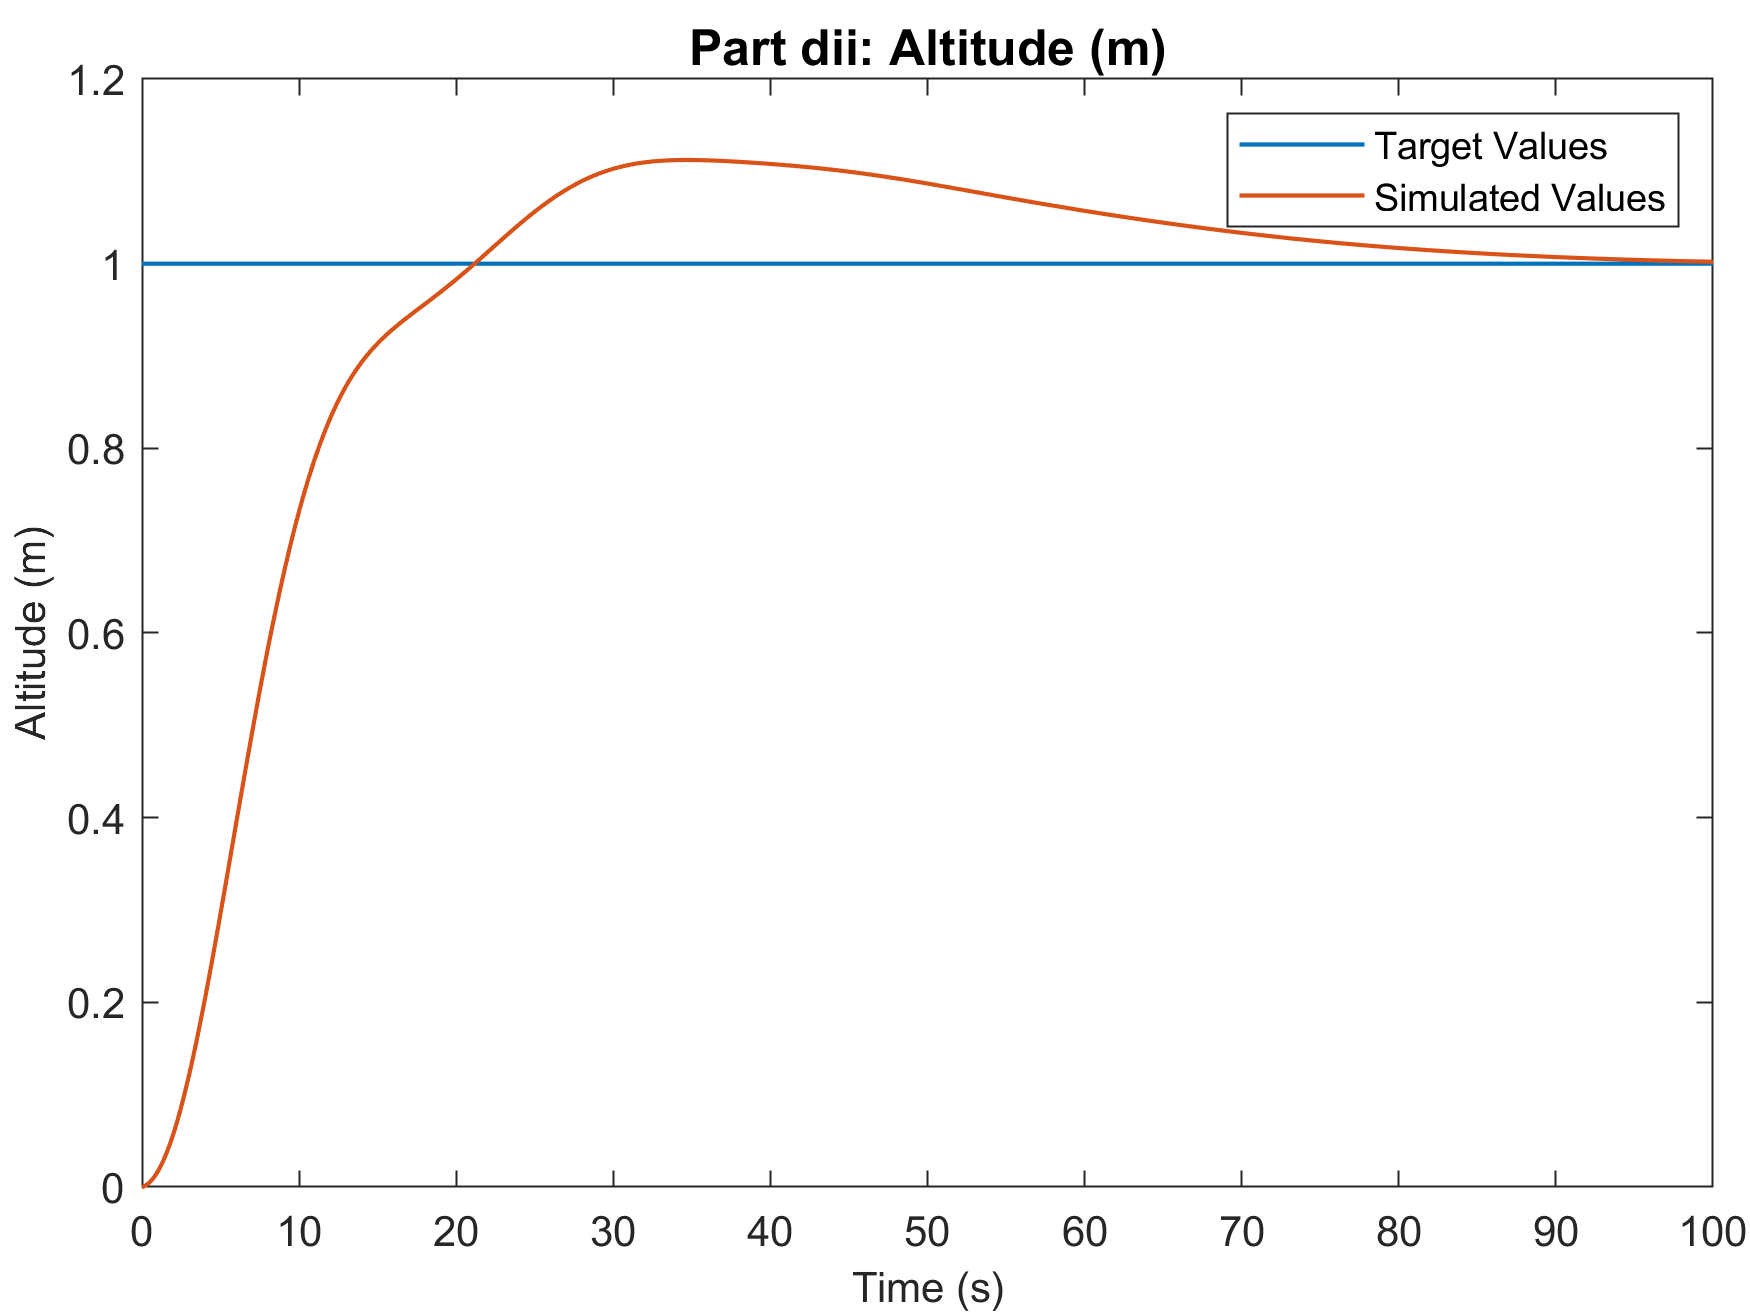
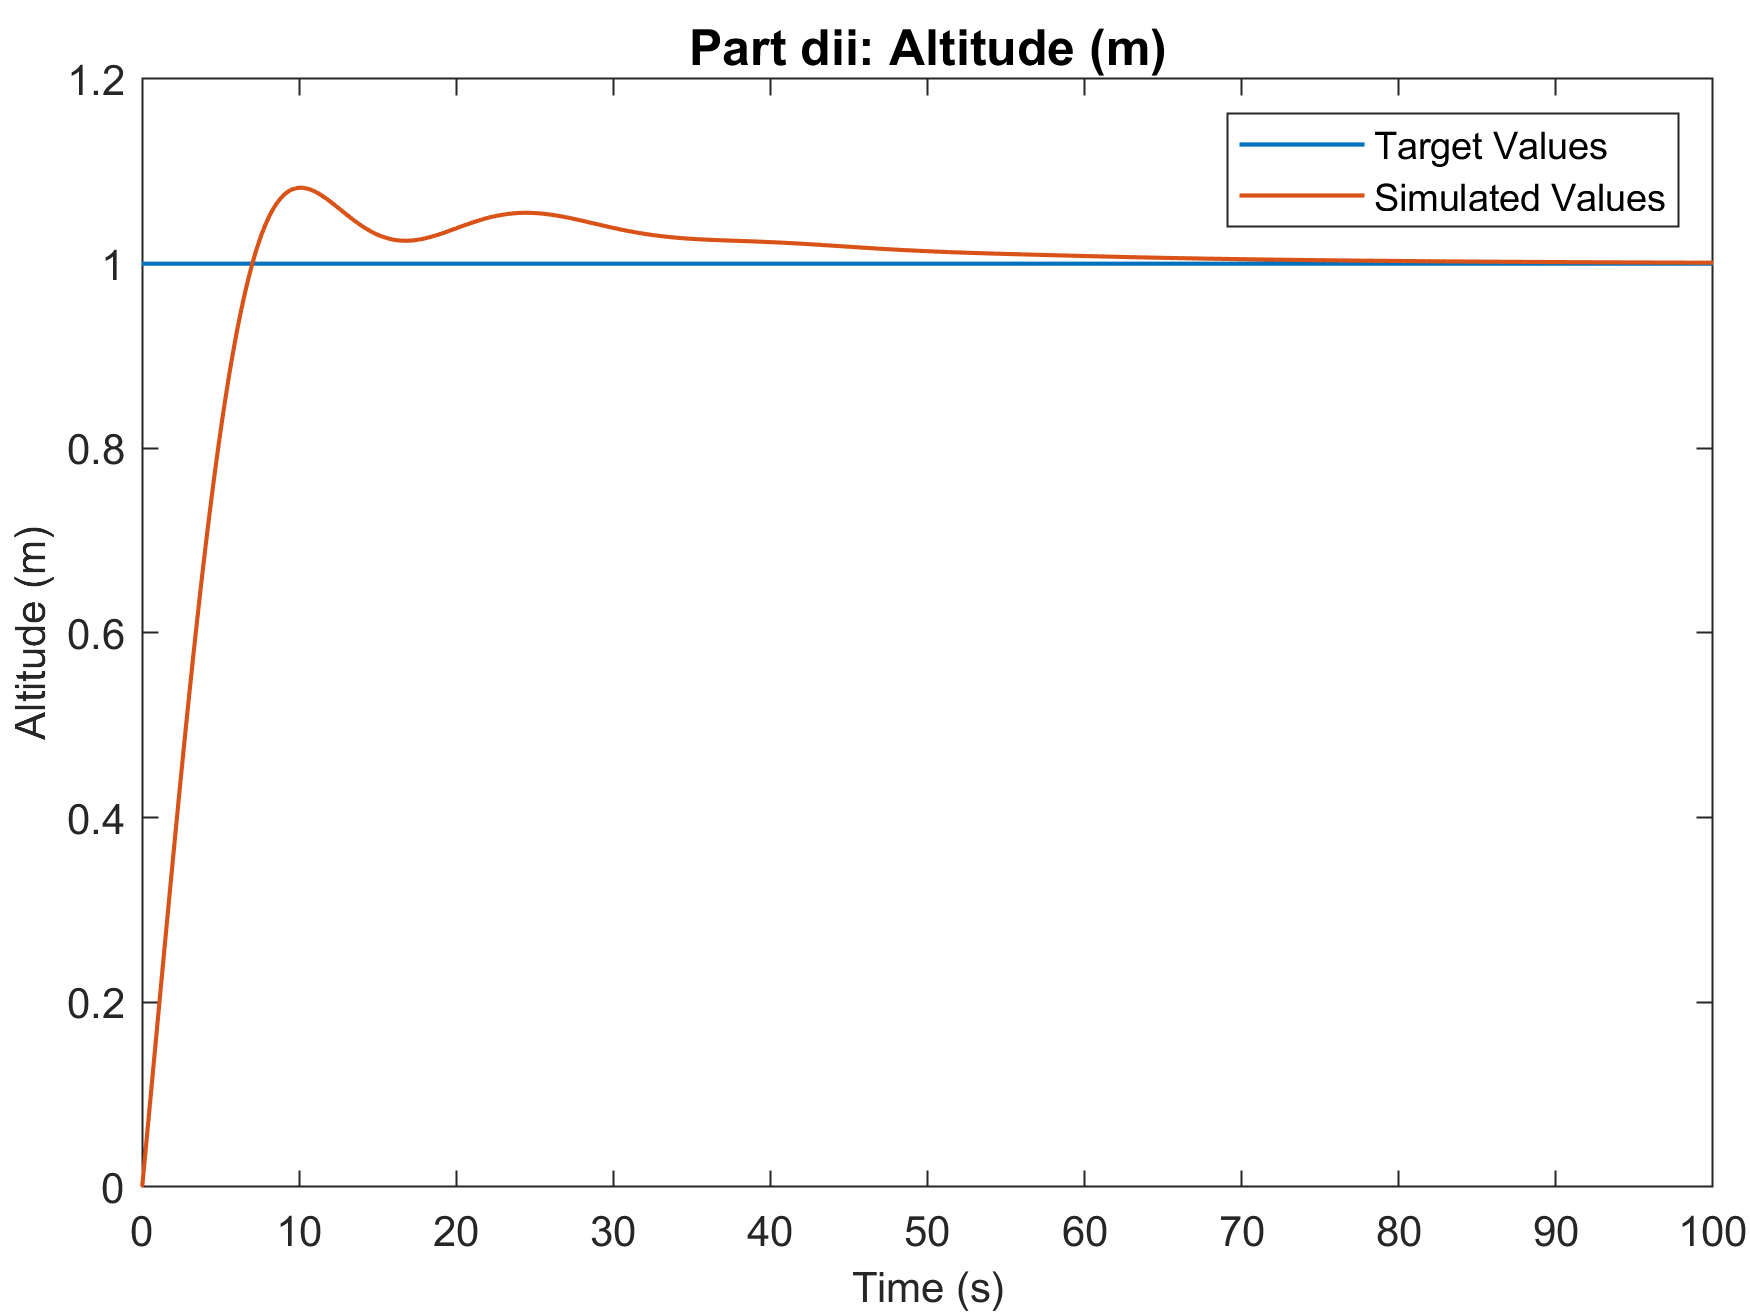
PID Gains and Circle Tracking
- Tuned the 3 sets of PID gains
- Added conversion from heading-speed to x-y coordinates and plotted new result
-changed which plots made based on operation mode
-added way to weight one controller more heavily than the other

diff --git a/blimp_setup.m b/blimp_setup.m
@@ -16,14 +16,7 @@ TODO:
 	- Plot root locus with proportional gain Kp > 0 
 	- Automate pulling stats for SS_error, overshoot and settling time
 	- Don't know how the 0-255 control input relates to a target position
-	- Need to use PID Tuner to seperatly tune each of the 3 subsystems
-		- Once we get 3 sets of gains add them into the
-		  'simulate_blimp' function where specified
-	- Update plotting and telemetry for 'circle track' 
-		- Need to do some math in this file or change simulink file to 
-		  convert velocity and heading data to radius and theta data.
-		- Use simulated vs actual R-theta data to get cumulative
-		  distance error
+	- Compute cumulative distance error for circle tracking
 %}
 
 
@@ -35,7 +28,7 @@ TODO:
 % simulate_blimp(part_num, closed_loop, controller_on, t_final,		   opp_mode)
 simulate_blimp(		 'di',		  true,			 true,     100, 'altitude hold');
 simulate_blimp(		'dii',		  true,			 true,     100,  'heading hold');
-simulate_blimp(	   'diii',		  true,			 true,     100,  'circle track');
+simulate_blimp(	   'diii',		  true,			 true,     200,  'circle track');
 
 
 function simulate_blimp(part_num, closed_loop, controller_on, t_final, opp_mode)
@@ -44,12 +37,15 @@ function simulate_blimp(part_num, closed_loop, controller_on, t_final, opp_mode)
 	options = simset('SrcWorkspace','current');
 
 	% Gains found user PID Tuner
-	[Kp_a, Ki_a, Kd_a, N_a] = deal(10, 5, 2, 100);
-	[Kp_h, Ki_h, Kd_h, N_h] = deal(40, 0, 1, 100);
-	[Kp_f, Ki_f, Kd_f, N_f] = deal(50, 50, 0, 100);
+	[Kp_a, Ki_a, Kd_a, N_a] = deal(38, 16, 74, 1.5);
+	[Kp_h, Ki_h, Kd_h, N_h] = deal(75, 0.05, -11, 3.44);
+	[Kp_f, Ki_f, Kd_f, N_f] = deal(96, 17, -67.5, 1.1);
 
 	% freq to switch between velo and heading control [hz]
-	switch_feq	= 2;	
+	switch_freq		= 5;
+
+	% Percent to weight controller use on speed vs heading 100 = all speed
+	switch_weight	= 75;
 
 	%% DEFINE THE TRANSFER FUNCTIONS
 	s	= tf('s');
@@ -85,7 +81,7 @@ function simulate_blimp(part_num, closed_loop, controller_on, t_final, opp_mode)
 		opp_mode		= 2;
 		target_alt		= 1;	% [m]
 		target_head		= pi/2;	% [rad]
-		target_speed	= 0;	% [m/s]
+		target_speed	= 0.3;	% [m/s]
 		ya_goal			= target_alt * ones(n, 1);
 		yh_goal			= target_head * ones(n, 1);
 		yf_goal			= target_speed * ones(n, 1);
@@ -94,7 +90,7 @@ function simulate_blimp(part_num, closed_loop, controller_on, t_final, opp_mode)
 		opp_mode		= 3;   
 		target_alt		= 0;	% [m]
 		target_speed	= 0.3;	% [m/s]
-		slope			= 1/(radius*target_speed); % [rad/s]
+		slope			= target_speed/radius; % [rad/s]
 		ya_goal			= target_alt * ones(n, 1);
 		yh_goal			= t_goal * slope;
 		yf_goal			= target_speed * ones(n, 1);
@@ -107,47 +103,61 @@ function simulate_blimp(part_num, closed_loop, controller_on, t_final, opp_mode)
 	ya		= results.ya.signals.values;
 	yh		= results.yh.signals.values;
 	yf		= results.yf.signals.values;
+	xPos	= results.xPos.signals.values;
+	yPos	= results.yPos.signals.values;
+
+	% If we simulated more than 1 circle grab the first circle
+	xPos	= xPos(yh<2*pi);
+	yPos	= yPos(yh<2*pi);
 
 	%% PLOT AND SAVE SIMULAION OUTPUT
 	if not(isfolder('figures'))
 		mkdir figures
 	end
 	
-	fig = figure();
-	heading		= strcat("Part ", part_num, ": Altitude (m)");
-	savename	= strcat("Part", part_num, "_Altitude");
-	hold on
-	set(gca, 'Box', 'on');
-	title(heading, 'Fontsize', 12);
-	xlabel('Time (s)', 'Fontsize', 10);
-	ylabel('Altitude (m)', 'Fontsize', 10);
-	plot(t_goal, ya_goal, t_sim, ya,  'linewidth', 1);
-	legend('Target Values', 'Simulated Values');
-	save_figure(fig, savename, 'figures\');
+	if opp_mode == 1
+		fig = figure();
+		heading		= strcat("Part ", part_num, ": Altitude (m)");
+		savename	= strcat("Part", part_num, "_Altitude");
+		hold on
+		set(gca, 'Box', 'on');
+		title(heading, 'Fontsize', 12);
+		xlabel('Time (s)', 'Fontsize', 10);
+		ylabel('Altitude (m)', 'Fontsize', 10);
+		plot(t_goal, ya_goal, t_sim, ya,  'linewidth', 1);
+		legend('Target Values', 'Simulated Values');
+		save_figure(fig, savename, 'figures\');
+	end
 	
-	fig = figure();
-	heading		= strcat("Part ", part_num, ": Heading");
-	savename	= strcat("Part", part_num, "_Heading");
-	hold on
-	set(gca, 'Box', 'on');
-	title(heading, 'Fontsize', 12);
-	xlabel('Time (s)', 'Fontsize', 10);
-	ylabel('Heading (rad)', 'Fontsize', 10);
-	plot(t_goal, yh_goal, t_sim, yh,  'linewidth', 1);
-	legend('Target Values', 'Simulated Values');
-	save_figure(fig, savename, 'figures\');
+	if opp_mode == 2 
+		fig = figure();
+		heading		= strcat("Part ", part_num, ": Heading");
+		savename	= strcat("Part", part_num, "_Heading");
+		hold on
+		set(gca, 'Box', 'on');
+		title(heading, 'Fontsize', 12);
+		xlabel('Time (s)', 'Fontsize', 10);
+		ylabel('Heading (rad)', 'Fontsize', 10);
+		plot(t_goal, yh_goal, t_sim, yh,  'linewidth', 1);
+		legend('Target Values', 'Simulated Values');
+		save_figure(fig, savename, 'figures\');
+	end
 	
-	fig = figure();
-	heading		= strcat("Part ", part_num, ": Speed");
-	savename	= strcat("Part", part_num, "_Speed");
-	hold on
-	set(gca, 'Box', 'on');
-	title(heading, 'Fontsize', 12);
-	xlabel('Time (s)', 'Fontsize', 10);
-	ylabel('Speed (m/s)', 'Fontsize', 10);
-	plot(t_goal, yf_goal, t_sim, yf,  'linewidth', 1);
-	legend('Target Values', 'Simulated Values');
-	save_figure(fig, savename, 'figures\');
+	if opp_mode == 3
+		fig = figure();
+		heading		= strcat("Part ", part_num, ": Circle Tracking");
+		savename	= strcat("Part", part_num, "_Circl");
+		hold on
+		set(gca, 'Box', 'on');
+		title(heading, 'Fontsize', 12);
+		xlabel('X Position (m)', 'Fontsize', 10);
+		ylabel('Y Positin (m)', 'Fontsize', 10);
+		b	= viscircles([0, radius], radius)
+		a	= plot(xPos, yPos,  'linewidth', 1);
+		legend([a, b], {'Target Values', 'Simulated Values'});
+		save_figure(fig, savename, 'figures\');
+	end
+
 end
 
 
